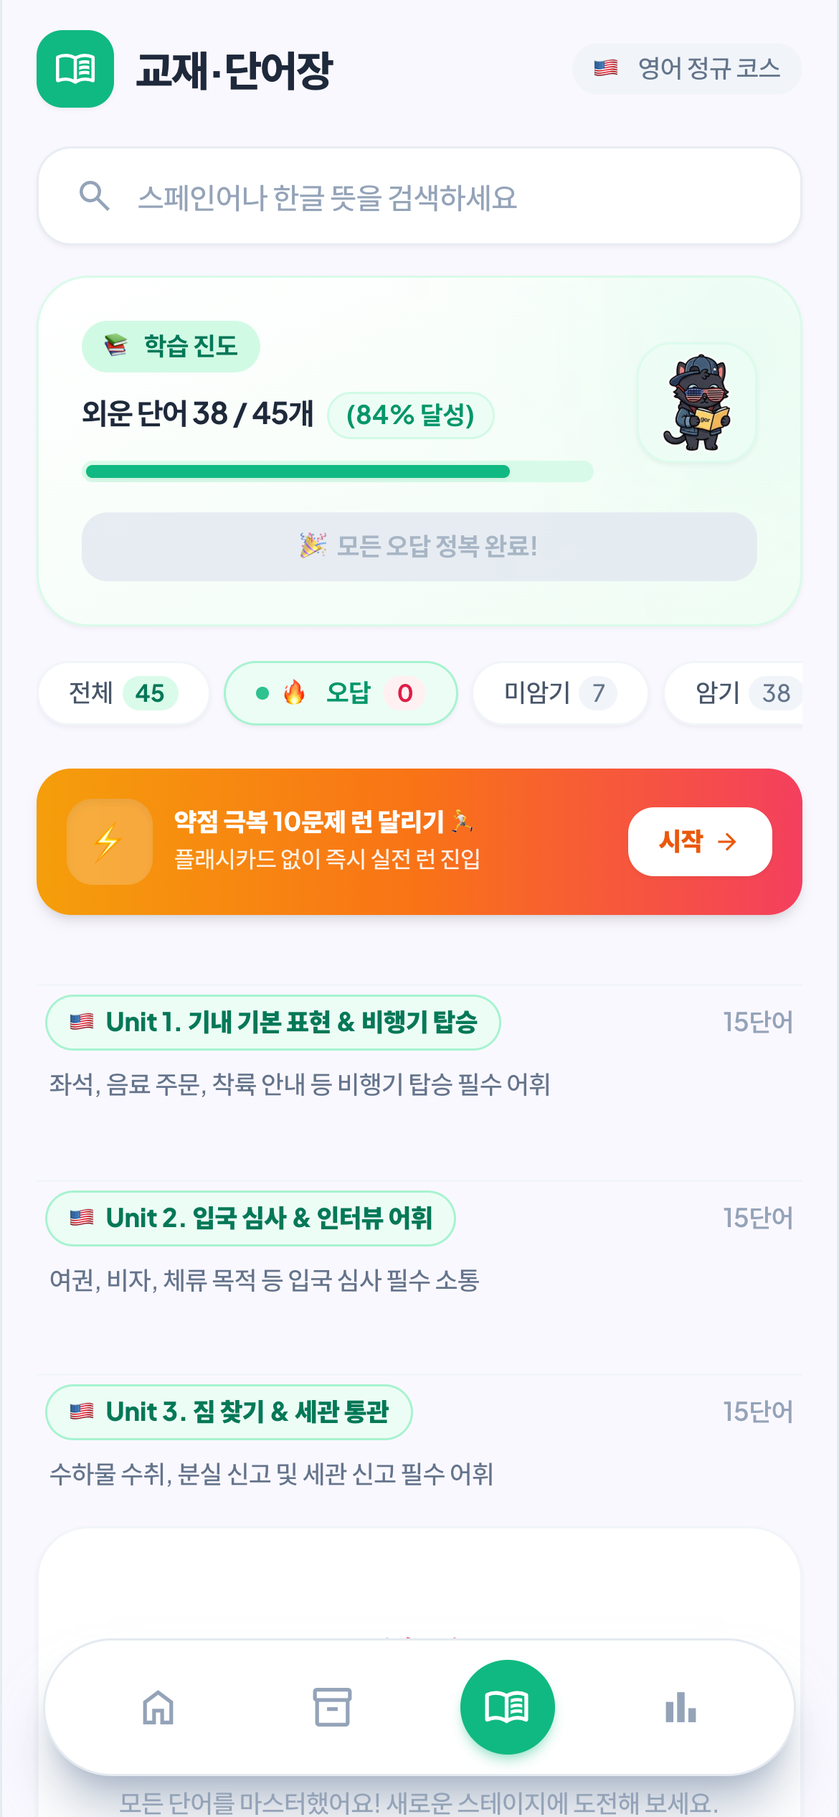
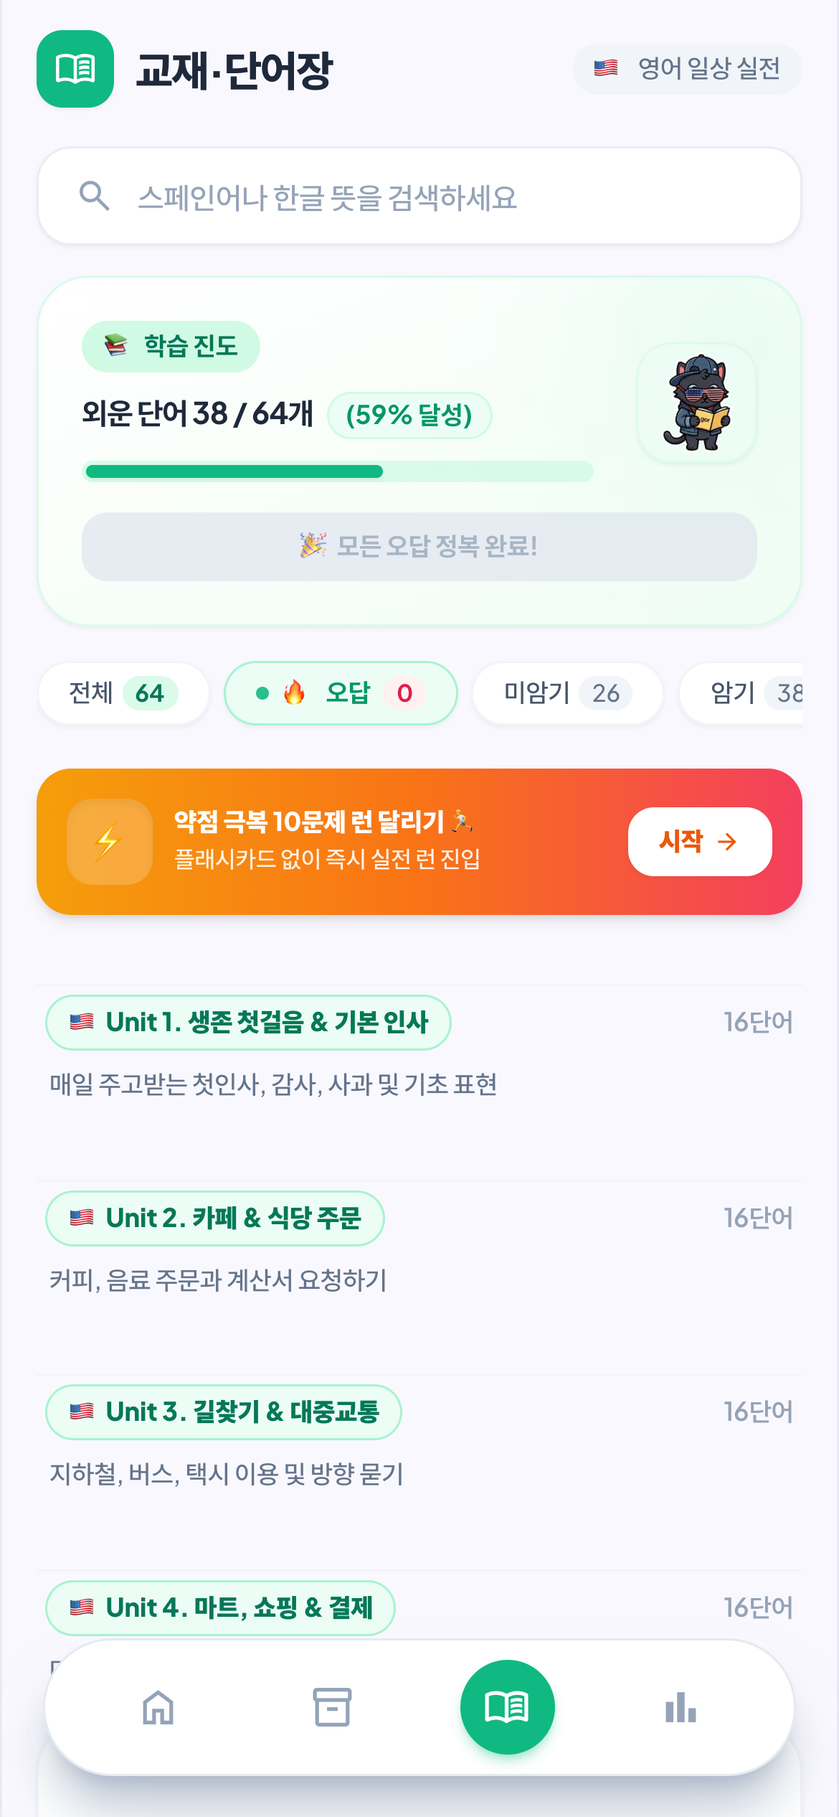
refactor: data_en.js 공항 레거시 데이터 완전 삭제 및 일상 실전 기초 4개 챕터로 전면 대체

diff --git a/js/data_en.js b/js/data_en.js
@@ -1,8 +1,3 @@
-// ==============================================================================
-// VocaDash - 영어 코스 데이터 (js/data_en.js)
-// 🇺🇸 최신 VocaDash 표준 데이터 규격 (units.words 구조, 총 3 Units, 45개 핵심 어휘)
-// ==============================================================================
-
 (function (root, factory) {
   if (typeof module === 'object' && module.exports) {
     module.exports = factory();
@@ -15,47 +10,47 @@
   const courseData_en = {
     id: "en_main",
     courseId: "en_main",
-    title: "영어 정규 코스",
+    code: "en",
     name: "영어 정규 코스",
     courseName: "영어 정규 코스",
-    desc: "기내 표현, 입국 심사, 짐 찾기 실전 여행 & 회화 영어",
-    description: "기내 표현, 입국 심사, 짐 찾기 실전 여행 & 회화 영어",
+    title: "영어 일상 실전",
+    desc: "인사, 카페/식당 주문, 길찾기부터 마트 쇼핑까지 매일 쓰는 필수 영어",
     badge: "🇺🇸 정규 코스",
     icon: "🇺🇸",
     flag: "🇺🇸",
-    mascotImg: "assets/characters/en-study.webp?v=89",
-    totalUnits: 3,
+    mascotImg: "assets/characters/en-study.webp?v=88",
+    totalUnits: 4,
     units: [
       {
         unitId: 1,
         unitNumber: 1,
         id: 1,
         unit: 1,
-        title: "Unit 1. 기내 기본 표현 & 비행기 탑승",
-        desc: "좌석, 음료 주문, 착륙 안내 등 비행기 탑승 필수 어휘",
-        subtitle: "좌석, 음료 주문, 착륙 안내 등 비행기 탑승 필수 어휘",
+        title: "Unit 1. 생존 첫걸음 & 기본 인사",
+        desc: "매일 주고받는 첫인사, 감사, 사과 및 기초 표현",
         words: [
-          { id: "en_101", word: "seat", pronunciation: "시트", meaning: "좌석 / 자리" },
-          { id: "en_102", word: "window seat", pronunciation: "윈도우 시트", meaning: "창가 좌석" },
-          { id: "en_103", word: "aisle seat", pronunciation: "아일 시트", meaning: "통로 좌석" },
-          { id: "en_104", word: "blanket", pronunciation: "블랭킷", meaning: "담요" },
-          { id: "en_105", word: "headphones", pronunciation: "헤드폰즈", meaning: "이어폰 / 헤드폰" },
-          { id: "en_106", word: "water", pronunciation: "워터", meaning: "물 / 생수" },
-          { id: "en_107", word: "coffee", pronunciation: "커피", meaning: "커피" },
-          { id: "en_108", word: "seatbelt", pronunciation: "시트벨트", meaning: "안전벨트" },
-          { id: "en_109", word: "takeoff", pronunciation: "테이크오프", meaning: "이륙" },
-          { id: "en_110", word: "landing", pronunciation: "랜딩", meaning: "착륙" },
-          { id: "en_111", word: "hello", pronunciation: "헬로우", meaning: "안녕하세요" },
-          { id: "en_112", word: "thank you", pronunciation: "땡큐", meaning: "감사합니다" },
-          { id: "en_113", word: "please", pronunciation: "플리즈", meaning: "부탁합니다" },
-          { id: "en_114", word: "excuse me", pronunciation: "익스큐즈 미", meaning: "실례합니다" },
-          { id: "en_115", word: "restroom", pronunciation: "레스트룸", meaning: "화장실" }
+          { id: "en_101", word: "Hello", pronunciation: "헬로우", meaning: "안녕하세요 / 안녕" },
+          { id: "en_102", word: "Good morning", pronunciation: "굿 모닝", meaning: "좋은 아침이에요" },
+          { id: "en_103", word: "Good afternoon", pronunciation: "굿 애프터눈", meaning: "좋은 오후예요" },
+          { id: "en_104", word: "Good evening", pronunciation: "굿 이브닝", meaning: "좋은 저녁이에요" },
+          { id: "en_105", word: "Thank you", pronunciation: "땡큐", meaning: "감사합니다" },
+          { id: "en_106", word: "Thanks a lot", pronunciation: "땡스 어 랏", meaning: "정말 고마워요" },
+          { id: "en_107", word: "You're welcome", pronunciation: "유어 웰컴", meaning: "천만에요 / 별말씀을요" },
+          { id: "en_108", word: "Please", pronunciation: "플리즈", meaning: "부탁합니다 / 제발" },
+          { id: "en_109", word: "Excuse me", pronunciation: "익스큐즈 미", meaning: "실례합니다 / 저기요" },
+          { id: "en_110", word: "I'm sorry", pronunciation: "아임 쏘리", meaning: "죄송합니다 / 미안해요" },
+          { id: "en_111", word: "Nice to meet you", pronunciation: "나이스 투 밋 유", meaning: "만나서 반갑습니다" },
+          { id: "en_112", word: "Goodbye", pronunciation: "굿바이", meaning: "안녕히 가세요" },
+          { id: "en_113", word: "See you later", pronunciation: "씨 유 레이터", meaning: "나중에 봐요" },
+          { id: "en_114", word: "Yes", pronunciation: "예스", meaning: "네 / 맞아요" },
+          { id: "en_115", word: "No", pronunciation: "노", meaning: "아니요" },
+          { id: "en_116", word: "How are you?", pronunciation: "하우 아 유?", meaning: "어떻게 지내세요?" }
         ],
         nodes: [
-          { id: "en_1_n1", type: "stage", title: "1과: 기내 필수 어휘", stageNumber: 1, wordIds: ["en_101", "en_102", "en_103", "en_104", "en_105", "en_106", "en_107", "en_108"] },
+          { id: "en_1_n1", type: "stage", title: "1과: 첫 만남과 감사", stageNumber: 1, wordIds: ["en_101", "en_102", "en_103", "en_104", "en_105", "en_106", "en_107", "en_108"] },
           { id: "en_1_n2", type: "bonus", title: "보너스 상자", rewardGems: 15 },
-          { id: "en_1_n3", type: "stage", title: "2과: 운항 & 기내 요청", stageNumber: 2, wordIds: ["en_109", "en_110", "en_111", "en_112", "en_113", "en_114", "en_115"] },
-          { id: "en_1_n4", type: "sentence", title: "핵심 문장", targetSentence: "A glass of water, please.", meaning: "물 한 잔 부탁합니다." },
+          { id: "en_1_n3", type: "stage", title: "2과: 사과와 작별 인사", stageNumber: 2, wordIds: ["en_109", "en_110", "en_111", "en_112", "en_113", "en_114", "en_115", "en_116"] },
+          { id: "en_1_n4", type: "sentence", title: "핵심 문장", targetSentence: "Hello! How are you doing today?", meaning: "안녕하세요! 오늘 어떻게 지내세요?" },
           { id: "en_1_n5", type: "review", title: "약점 복습" },
           { id: "en_1_n6", type: "boss", title: "Unit 1 보스전" }
         ]
@@ -65,31 +60,31 @@
         unitNumber: 2,
         id: 2,
         unit: 2,
-        title: "Unit 2. 입국 심사 & 인터뷰 어휘",
-        desc: "여권, 비자, 체류 목적 등 입국 심사 필수 소통",
-        subtitle: "여권, 비자, 체류 목적 등 입국 심사 필수 소통",
+        title: "Unit 2. 카페 & 식당 주문",
+        desc: "커피, 음료 주문과 계산서 요청하기",
         words: [
-          { id: "en_201", word: "passport", pronunciation: "패스포트", meaning: "여권" },
-          { id: "en_202", word: "visa", pronunciation: "비자", meaning: "비자 / 입국 허가" },
-          { id: "en_203", word: "purpose", pronunciation: "퍼포스", meaning: "방문 목적" },
-          { id: "en_204", word: "tourism", pronunciation: "투어리즘", meaning: "관광" },
-          { id: "en_205", word: "business", pronunciation: "비즈니스", meaning: "출장 / 사업" },
-          { id: "en_206", word: "stay", pronunciation: "스테이", meaning: "체류 기간" },
-          { id: "en_207", word: "hotel", pronunciation: "호텔", meaning: "호텔 / 숙소" },
-          { id: "en_208", word: "ticket", pronunciation: "티켓", meaning: "항공권 / 표" },
-          { id: "en_209", word: "address", pronunciation: "어드레스", meaning: "주소" },
-          { id: "en_210", word: "duration", pronunciation: "듀레이션", meaning: "체류 기간" },
-          { id: "en_211", word: "occupation", pronunciation: "아큐페이션", meaning: "직업" },
-          { id: "en_212", word: "currency", pronunciation: "커런시", meaning: "통화 / 외환" },
-          { id: "en_213", word: "officer", pronunciation: "오피서", meaning: "심사관" },
-          { id: "en_214", word: "inspection", pronunciation: "인스펙션", meaning: "검사 / 심사" },
-          { id: "en_215", word: "return ticket", pronunciation: "리턴 티켓", meaning: "귀국 항공권" }
+          { id: "en_201", word: "Coffee", pronunciation: "커피", meaning: "커피" },
+          { id: "en_202", word: "Iced Americano", pronunciation: "아이스드 아메리카노", meaning: "아이스 아메리카노" },
+          { id: "en_203", word: "Cold water", pronunciation: "콜드 워터", meaning: "시원한 물" },
+          { id: "en_204", word: "Sparkling water", pronunciation: "스파클링 워터", meaning: "탄산수" },
+          { id: "en_205", word: "Beer", pronunciation: "비어", meaning: "맥주" },
+          { id: "en_206", word: "Menu", pronunciation: "메뉴", meaning: "메뉴판" },
+          { id: "en_207", word: "Order", pronunciation: "오더", meaning: "주문하다 / 주문" },
+          { id: "en_208", word: "Can I get...", pronunciation: "캔 아이 겟...", meaning: "~주실 수 있나요?" },
+          { id: "en_209", word: "For here", pronunciation: "포 히어", meaning: "매장 식사" },
+          { id: "en_210", word: "To go", pronunciation: "투 고", meaning: "테이크아웃 / 포장" },
+          { id: "en_211", word: "The check, please", pronunciation: "더 체크, 플리즈", meaning: "계산서 주세요" },
+          { id: "en_212", word: "How much is it?", pronunciation: "하우 머치 이즈 잇?", meaning: "얼마인가요?" },
+          { id: "en_213", word: "Delicious", pronunciation: "딜리셔스", meaning: "맛있는" },
+          { id: "en_214", word: "Fork and knife", pronunciation: "포크 앤 나이프", meaning: "포크와 나이프" },
+          { id: "en_215", word: "Napkin", pronunciation: "냅킨", meaning: "냅킨 / 휴지" },
+          { id: "en_216", word: "Receipt", pronunciation: "리시트", meaning: "영수증" }
         ],
         nodes: [
-          { id: "en_2_n1", type: "stage", title: "1과: 심사 필수 서류", stageNumber: 1, wordIds: ["en_201", "en_202", "en_203", "en_204", "en_205", "en_206", "en_207", "en_208"] },
+          { id: "en_2_n1", type: "stage", title: "1과: 음료와 커피 주문", stageNumber: 1, wordIds: ["en_201", "en_202", "en_203", "en_204", "en_205", "en_206", "en_207", "en_208"] },
           { id: "en_2_n2", type: "bonus", title: "보너스 상자", rewardGems: 15 },
-          { id: "en_2_n3", type: "stage", title: "2과: 방문 목적 & 심사 인터뷰", stageNumber: 2, wordIds: ["en_209", "en_210", "en_211", "en_212", "en_213", "en_214", "en_215"] },
-          { id: "en_2_n4", type: "sentence", title: "핵심 문장", targetSentence: "The purpose of my trip is tourism.", meaning: "제 여행 목적은 관광입니다." },
+          { id: "en_2_n3", type: "stage", title: "2과: 메뉴 주문과 계산", stageNumber: 2, wordIds: ["en_209", "en_210", "en_211", "en_212", "en_213", "en_214", "en_215", "en_216"] },
+          { id: "en_2_n4", type: "sentence", title: "핵심 문장", targetSentence: "Can I get an iced coffee and the check, please?", meaning: "아이스 커피 한 잔과 계산서 부탁합니다." },
           { id: "en_2_n5", type: "review", title: "약점 복습" },
           { id: "en_2_n6", type: "boss", title: "Unit 2 보스전" }
         ]
@@ -99,73 +94,73 @@
         unitNumber: 3,
         id: 3,
         unit: 3,
-        title: "Unit 3. 짐 찾기 & 세관 통관",
-        desc: "수하물 수취, 분실 신고 및 세관 신고 필수 어휘",
-        subtitle: "수하물 수취, 분실 신고 및 세관 신고 필수 어휘",
+        title: "Unit 3. 길찾기 & 대중교통",
+        desc: "지하철, 버스, 택시 이용 및 방향 묻기",
         words: [
-          { id: "en_301", word: "baggage claim", pronunciation: "배기지 클레임", meaning: "수하물 수취대" },
-          { id: "en_302", word: "suitcase", pronunciation: "수트케이스", meaning: "여행 가방 / 캐리어" },
-          { id: "en_303", word: "lost luggage", pronunciation: "로스트 러기지", meaning: "분실된 수하물" },
-          { id: "en_304", word: "luggage tag", pronunciation: "러기지 태그", meaning: "수하물 태그" },
-          { id: "en_305", word: "customs", pronunciation: "커스텀스", meaning: "세관" },
-          { id: "en_306", word: "declaration", pronunciation: "데클러레이션", meaning: "신고서 / 세관신고" },
-          { id: "en_307", word: "tax", pronunciation: "택스", meaning: "세금 / 관세" },
-          { id: "en_308", word: "prohibited", pronunciation: "프로히비티드", meaning: "반입 금지된" },
-          { id: "en_309", word: "liquids", pronunciation: "리퀴즈", meaning: "액체류" },
-          { id: "en_310", word: "nothing to declare", pronunciation: "낫띵 투 디클레어", meaning: "신고 물품 없음" },
-          { id: "en_311", word: "cart", pronunciation: "카트", meaning: "수하물 카트" },
-          { id: "en_312", word: "damaged", pronunciation: "데미지드", meaning: "파손된" },
-          { id: "en_313", word: "receipt", pronunciation: "리시트", meaning: "영수증" },
-          { id: "en_314", word: "claim tag", pronunciation: "클레임 태그", meaning: "수취용 수하물표" },
-          { id: "en_315", word: "green channel", pronunciation: "그린 채널", meaning: "녹색 통로 (면세)" }
+          { id: "en_301", word: "Subway station", pronunciation: "서브웨이 스테이션", meaning: "지하철역" },
+          { id: "en_302", word: "Bus stop", pronunciation: "버스 스탑", meaning: "버스 정류장" },
+          { id: "en_303", word: "Taxi", pronunciation: "택시", meaning: "택시" },
+          { id: "en_304", word: "Ticket", pronunciation: "티켓", meaning: "표 / 승차권" },
+          { id: "en_305", word: "Train", pronunciation: "트레인", meaning: "기차 / 열차" },
+          { id: "en_306", word: "Where is...?", pronunciation: "웨어 이즈...?", meaning: "~는 어디에 있나요?" },
+          { id: "en_307", word: "Turn right", pronunciation: "턴 라이트", meaning: "우회전하세요" },
+          { id: "en_308", word: "Turn left", pronunciation: "턴 레프트", meaning: "좌회전하세요" },
+          { id: "en_309", word: "Go straight", pronunciation: "고 스트레이트", meaning: "직진하세요" },
+          { id: "en_310", word: "Near", pronunciation: "니어", meaning: "가까운" },
+          { id: "en_311", word: "Far", pronunciation: "파", meaning: "먼 / 멀리" },
+          { id: "en_312", word: "Street", pronunciation: "스트리트", meaning: "길 / 거리" },
+          { id: "en_313", word: "Map", pronunciation: "맵", meaning: "지도" },
+          { id: "en_314", word: "Entrance", pronunciation: "엔트런스", meaning: "입구" },
+          { id: "en_315", word: "Exit", pronunciation: "엑시트", meaning: "출구" },
+          { id: "en_316", word: "Restroom", pronunciation: "레스트룸", meaning: "화장실" }
         ],
         nodes: [
-          { id: "en_3_n1", type: "stage", title: "1과: 수하물 찾기", stageNumber: 1, wordIds: ["en_301", "en_302", "en_303", "en_304", "en_305", "en_306", "en_307", "en_308"] },
+          { id: "en_3_n1", type: "stage", title: "1과: 대중교통 타기", stageNumber: 1, wordIds: ["en_301", "en_302", "en_303", "en_304", "en_305", "en_306", "en_307", "en_308"] },
           { id: "en_3_n2", type: "bonus", title: "보너스 상자", rewardGems: 15 },
-          { id: "en_3_n3", type: "stage", title: "2과: 세관 검사 & 통관", stageNumber: 2, wordIds: ["en_309", "en_310", "en_311", "en_312", "en_313", "en_314", "en_315"] },
-          { id: "en_3_n4", type: "sentence", title: "핵심 문장", targetSentence: "I have nothing to declare.", meaning: "신고할 물품이 없습니다." },
+          { id: "en_3_n3", type: "stage", title: "2과: 길 묻기와 방향", stageNumber: 2, wordIds: ["en_309", "en_310", "en_311", "en_312", "en_313", "en_314", "en_315", "en_316"] },
+          { id: "en_3_n4", type: "sentence", title: "핵심 문장", targetSentence: "Excuse me, where is the nearest subway station?", meaning: "실례합니다, 가장 가까운 지하철역이 어디인가요?" },
           { id: "en_3_n5", type: "review", title: "약점 복습" },
           { id: "en_3_n6", type: "boss", title: "Unit 3 보스전" }
         ]
+      },
+      {
+        unitId: 4,
+        unitNumber: 4,
+        id: 4,
+        unit: 4,
+        title: "Unit 4. 마트, 쇼핑 & 결제",
+        desc: "마트 장보기, 카드 결제, 봉투와 영수증 받기",
+        words: [
+          { id: "en_401", word: "Supermarket", pronunciation: "수퍼마켓", meaning: "슈퍼마켓 / 마트" },
+          { id: "en_402", word: "Store", pronunciation: "스토어", meaning: "가게 / 매장" },
+          { id: "en_403", word: "Pay by card", pronunciation: "페이 바이 카드", meaning: "카드로 결제하다" },
+          { id: "en_404", word: "In cash", pronunciation: "인 캐시", meaning: "현금으로" },
+          { id: "en_405", word: "Bag", pronunciation: "백", meaning: "비닐봉투 / 쇼핑백" },
+          { id: "en_406", word: "Receipt", pronunciation: "리시트", meaning: "영수증" },
+          { id: "en_407", word: "Shopping cart", pronunciation: "쇼핑 카트", meaning: "쇼핑 카트 / 바구니" },
+          { id: "en_408", word: "Price", pronunciation: "프라이스", meaning: "가격" },
+          { id: "en_409", word: "Expensive", pronunciation: "익스펜시브", meaning: "비싼" },
+          { id: "en_410", word: "Cheap", pronunciation: "칩", meaning: "저렴한 / 싼" },
+          { id: "en_411", word: "Discount", pronunciation: "디스카운트", meaning: "할인 / 세일" },
+          { id: "en_412", word: "Kilo", pronunciation: "킬로", meaning: "킬로그램 (kg)" },
+          { id: "en_413", word: "Fruit", pronunciation: "프루트", meaning: "과일" },
+          { id: "en_414", word: "Vegetable", pronunciation: "베지터블", meaning: "채소 / 야채" },
+          { id: "en_415", word: "Meat", pronunciation: "미트", meaning: "고기 / 육류" },
+          { id: "en_416", word: "Milk", pronunciation: "밀크", meaning: "우유" }
+        ],
+        nodes: [
+          { id: "en_4_n1", type: "stage", title: "1과: 마트 장보기", stageNumber: 1, wordIds: ["en_401", "en_402", "en_403", "en_404", "en_405", "en_406", "en_407", "en_408"] },
+          { id: "en_4_n2", type: "bonus", title: "보너스 상자", rewardGems: 15 },
+          { id: "en_4_n3", type: "stage", title: "2과: 식료품과 결제", stageNumber: 2, wordIds: ["en_409", "en_410", "en_411", "en_412", "en_413", "en_414", "en_415", "en_416"] },
+          { id: "en_4_n4", type: "sentence", title: "핵심 문장", targetSentence: "Can I pay by card? And a bag, please.", meaning: "카드로 결제할 수 있나요? 봉투도 하나 주세요." },
+          { id: "en_4_n5", type: "review", title: "약점 복습" },
+          { id: "en_4_n6", type: "boss", title: "Unit 4 보스전" }
+        ]
       }
-    ],
-    lessons: {
-      'node-1': {
-        title: '1과: 기내 기본 표현',
-        desc: 'Seat, Water 등 비행기 탑승 필수 영어 단어와 표현을 완벽하게 학습해보세요!',
-        icon: '✈',
-        level: '초급',
-        category: '공항/기내',
-        tags: ['영어', '공항', '기내', '비행기']
-      },
-      'node-2': {
-        title: '2과: 입국 심사',
-        desc: 'Passport, Purpose 등 필수 공항 인터뷰 질문과 핵심 어휘를 마스터하세요!',
-        icon: '🛂',
-        level: '초중급',
-        category: '입국심사',
-        tags: ['영어', '입국심사', '여권', '인터뷰']
-      },
-      'node-3': {
-        title: '3과: 짐 찾기 & 세관',
-        desc: 'Baggage claim, Customs 등 수하물 수취와 세관 검사 필수 표현 마스터!',
-        icon: '🧳',
-        level: '중급',
-        category: '세관/수하물',
-        tags: ['영어', '수하물', '세관', '짐찾기']
-      },
-      'node-boss': {
-        title: '보스전: 뉴욕 마스터 관문',
-        desc: '미국 입국 심사 및 공항 필수 영어 총정리 관문 & 마스터 특별 보상!',
-        icon: '👑',
-        level: '보스전',
-        category: '보스전',
-        tags: ['영어', '공항 마스터', '보스전']
-      }
-    }
+    ]
   };
 
-  // 단어 ID 기반 맵 헬퍼 생성 및 양방향 속성(word/term, pronunciation/pron) 정규화
+  // 단어 ID 매핑 및 양방향 속성 정규화
   const wordMap = {};
   courseData_en.units.forEach(u => {
     u.id = u.unitId;
@@ -179,8 +174,6 @@
     });
   });
   courseData_en.wordMap = wordMap;
-
-  // 전체 단어 평탄화 목록
   courseData_en.allWords = courseData_en.units.flatMap(u => u.words);
 
   if (typeof window !== 'undefined') {

diff --git a/index.html b/index.html
@@ -297,7 +297,7 @@
   </script>
 
   <!-- Custom CSS & Keyframe Animations -->
-  <link rel="stylesheet" href="css/style.css?v=96">
+  <link rel="stylesheet" href="css/style.css?v=97">
 </head>
 
 <body class="bg-slate-100 font-body-md text-body-md text-on-surface flex justify-center min-h-screen select-none antialiased">
@@ -3293,12 +3293,12 @@
   </div>
 
   <!-- Application Data & Logic (단일 로드 체제) -->
-  <script src="js/data_es.js?v=96"></script>
-  <script src="js/data_football.js?v=96"></script>
-  <script src="js/data_en.js?v=96"></script>
-  <script src="js/app.js?v=96"></script>
-  <script src="js/gameEngine.js?v=96"></script>
-  <script src="js/navigation.js?v=96"></script>
+  <script src="js/data_es.js?v=97"></script>
+  <script src="js/data_football.js?v=97"></script>
+  <script src="js/data_en.js?v=97"></script>
+  <script src="js/app.js?v=97"></script>
+  <script src="js/gameEngine.js?v=97"></script>
+  <script src="js/navigation.js?v=97"></script>
 
 </body>
 

diff --git a/test_results/QA_TEST_REPORT.md b/test_results/QA_TEST_REPORT.md
@@ -1,6 +1,6 @@
 # VocaDash 모바일 E2E 자동화 QA 최종 점검 리포트
 
-- **테스트 일시**: 2026-10-19T12:45:23.581Z
+- **테스트 일시**: 2026-10-19T12:51:54.058Z
 - **테스트 디바이스 규격**: Mobile Emulation (390 x 844 px, DPR=3, Touch Support, Chrome Headless)
 - **종합 결과**: **15/15 전원 통과 (100.0%)**
 
@@ -17,7 +17,7 @@
 | 5 | **Scenario B: Profile Avatar Change & Persistence** | 🟢 PASS | 4개 아바타 순차 변경 시 상단 헤더 즉시 전환 및 localStorage 완벽 유지, 모달 내 설정 아이콘 포함 확인 |
 | 6 | **Scenario C-1: Language Switch to English (Flag & Mascot & Signpost & Modal Dynamic Filtering & Top Clearance)** | 🟢 PASS | 국기 🇺🇸 영어 배지, en-* 캐릭터 에셋, NEW YORK 이정표 표지판 전환, 언어별 코스 목록 동적 필터링 및 1번 노드 상단 패딩(40px+ 확보) 완벽 검증 |
 | 7 | **Scenario C-2: Wrong Answer Notes Storage Isolation** | 🟢 PASS | 영어 오답 0개 빈 화면(Empty State) 표시 및 스페인어 단어 0건 완전 격리 확인 |
-| 8 | **Scenario D: Game Flow (Stage -> Flashcard -> In-Game -> Result)** | 🟢 PASS | 플래시카드 진입, 본 게임 시작, 4지선다 인터랙션(4회) 및 결과 모달까지 막힘없이 완주 |
+| 8 | **Scenario D: Game Flow (Stage -> Flashcard -> In-Game -> Result)** | 🟢 PASS | 플래시카드 진입, 본 게임 시작, 4지선다 인터랙션(6회) 및 결과 모달까지 막힘없이 완주 |
 | 9 | **Scenario E: Zero-Popup UX Validation** | 🟢 PASS | 진행 중 방해되는 네이티브 alert/confirm 팝업 0건 (원활한 UX 보장) |
 | 10 | **Scenario F: Bonus 1-Time Limit & Weakness Review 10-Questions/Graduation** | 🟢 PASS | 보너스 1회 제한 및 중복 방지, 10문제 스피드런 코스 구성, 5연속 정답 시 오답노트 영구 졸업 완벽 검증 |
 | 11 | **Scenario G: Course Management & Progress Isolation (DLC / Pack Expansion)** | 🟢 PASS | ⚽ 스페인 축구 실전팩(pack_football) 데이터 구축, 코스 스위칭, 배너/노드 갱신 및 단어장 연동 완벽 검증 |
